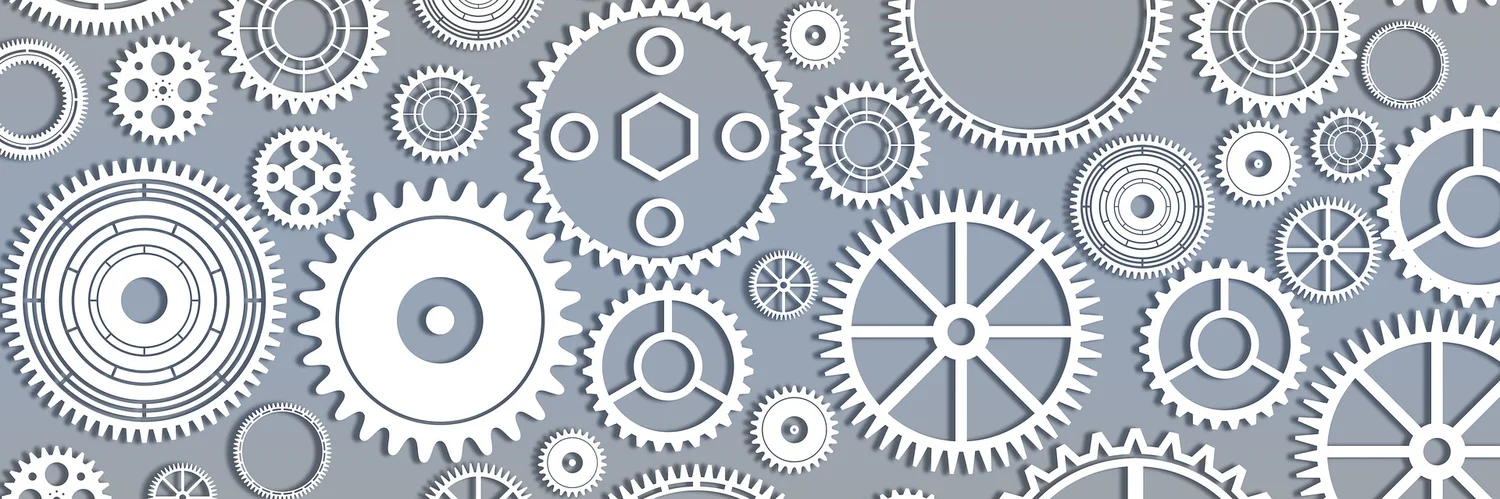
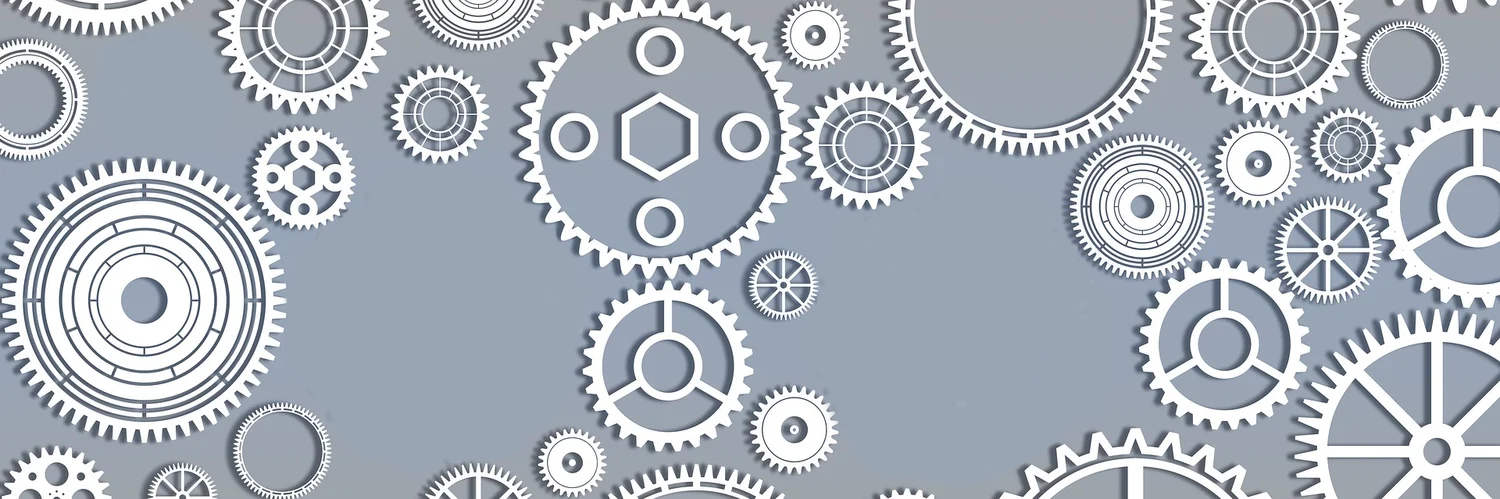
add rotating gears

Changed region(s): [[0.184, 0.3607, 0.3987, 0.9319], [0.5213, 0.3607, 0.736, 0.9619], [0.0613, 0.0601, 0.1533, 0.3006]]

diff --git a/components/svg/gears.js b/components/svg/gears.js
@@ -1,0 +1,97 @@
+import styled, { css, keyframes } from "styled-components";
+
+export const Gear = (props) => (
+  <svg viewBox="0 0 797.119 265.291" {...props}>
+    <image
+      width={797.119}
+      height={265.291}
+      style={{}}
+      xlinkHref=" /banner1.webp"
+    />
+    <Gear1
+      className="gear_1"
+      style={{
+        fill: "#fff",
+        stroke: "rgb(0, 0, 0)",
+        strokeOpacity: 0,
+      }}
+      d="M 519.394 192.746 C 518.388 193.276 517.335 193.712 516.248 194.049 L 516.242 235.177 C 527.947 234.082 539.214 229.505 548.475 221.818 L 519.394 192.746 Z M 505.289 194.049 C 504.202 193.712 503.149 193.276 502.143 192.746 L 472.979 221.901 C 478.832 226.739 485.811 230.561 493.817 232.955 C 497.602 234.087 501.446 234.825 505.296 235.182 L 505.289 194.049 Z M 494.393 184.996 C 493.864 183.99 493.427 182.937 493.091 181.851 L 451.906 181.844 C 453.034 193.584 457.615 204.93 465.241 214.159 L 494.393 184.996 Z M 493.091 170.891 C 493.427 169.805 493.864 168.752 494.393 167.746 L 465.262 138.604 C 457.215 148.208 452.871 159.489 451.862 170.898 L 493.091 170.891 Z M 502.143 159.996 C 503.149 159.466 504.202 159.03 505.289 158.693 L 505.296 117.514 C 493.574 118.601 482.289 123.18 473.016 130.877 L 502.143 159.996 Z M 516.248 158.693 C 517.335 159.03 518.388 159.466 519.394 159.996 L 548.564 130.835 C 542.701 125.978 535.705 122.141 527.676 119.74 C 523.906 118.612 520.076 117.876 516.242 117.517 L 516.248 158.693 Z M 527.144 167.746 C 527.674 168.752 528.11 169.805 528.446 170.891 L 569.591 170.898 C 568.473 159.162 563.904 147.819 556.293 138.586 L 527.144 167.746 Z M 528.446 181.851 C 528.11 182.937 527.674 183.99 527.144 184.996 L 556.23 214.093 C 564.266 204.501 568.61 193.237 569.626 181.844 L 528.446 181.851 Z M 516.229 181.831 C 520.432 177.628 518.509 170.451 512.767 168.912 C 510.102 168.198 507.259 168.96 505.308 170.911 C 501.105 175.114 503.028 182.291 508.77 183.83 C 511.435 184.544 514.278 183.782 516.229 181.831 Z M 564.057 230.527 L 561.767 232.689 L 551.779 224.04 C 551.12 224.607 550.449 225.16 549.768 225.699 L 556.36 237.149 L 553.802 238.987 L 545.056 229.083 C 544.327 229.557 543.589 230.016 542.842 230.459 L 547.849 242.686 L 545.069 244.167 L 537.721 233.186 C 536.936 233.558 536.143 233.915 535.343 234.254 L 538.676 247.04 L 535.723 248.136 L 529.904 236.274 C 529.076 236.539 528.243 236.786 527.405 237.016 L 529.005 250.132 L 525.932 250.825 L 521.746 238.293 C 520.89 238.445 520.031 238.579 519.17 238.695 L 519.007 251.907 L 515.87 252.184 L 513.391 239.206 C 512.523 239.243 511.654 239.261 510.785 239.262 L 508.862 252.334 L 505.716 252.191 L 504.99 238.998 C 504.124 238.918 503.26 238.821 502.399 238.706 L 498.751 251.405 L 495.652 250.843 L 496.69 237.671 C 495.843 237.477 495 237.266 494.162 237.036 L 488.854 249.136 L 485.857 248.167 L 488.642 235.251 C 487.828 234.945 487.021 234.623 486.221 234.284 L 479.348 245.569 L 476.507 244.209 L 480.988 231.779 C 480.223 231.368 479.465 230.941 478.717 230.499 L 470.401 240.766 L 467.767 239.039 L 473.866 227.318 C 473.161 226.809 472.468 226.285 471.786 225.746 L 462.175 234.814 L 459.795 232.751 L 467.401 221.948 C 466.771 221.349 466.154 220.737 465.549 220.113 L 454.816 227.818 L 452.731 225.457 L 461.71 215.763 C 461.165 215.086 460.635 214.397 460.119 213.698 L 448.455 219.904 L 446.703 217.286 L 456.894 208.876 C 456.444 208.132 456.01 207.379 455.592 206.617 L 443.205 211.213 L 441.818 208.385 L 453.039 201.408 C 452.692 200.61 452.363 199.806 452.05 198.995 L 439.16 201.9 L 438.163 198.912 L 450.213 193.492 C 449.976 192.656 449.757 191.815 449.555 190.97 L 436.393 192.13 L 435.803 189.036 L 448.468 185.271 C 448.345 184.411 448.24 183.548 448.152 182.683 L 434.953 182.079 L 434.781 178.934 L 447.835 176.891 C 447.827 176.022 447.838 175.152 447.866 174.284 L 434.865 171.926 L 435.114 168.786 L 448.323 168.5 C 448.432 167.638 448.558 166.778 448.702 165.921 L 436.132 161.851 L 436.797 158.772 L 449.926 160.25 C 450.149 159.41 450.389 158.575 450.646 157.744 L 438.73 152.035 L 439.799 149.072 L 452.615 152.287 C 452.947 151.484 453.296 150.688 453.661 149.9 L 442.613 142.653 L 444.067 139.859 L 456.34 144.754 C 456.777 144.002 457.229 143.26 457.696 142.527 L 447.712 133.873 L 449.526 131.298 L 461.037 137.784 C 461.569 137.097 462.116 136.422 462.677 135.758 L 453.936 125.85 L 456.077 123.54 L 466.62 131.503 C 467.24 130.893 467.872 130.296 468.516 129.713 L 461.173 118.728 L 463.603 116.724 L 472.991 126.021 C 473.686 125.5 474.392 124.993 475.109 124.5 L 469.295 112.635 L 471.971 110.972 L 480.036 121.438 C 480.794 121.014 481.562 120.605 482.337 120.213 L 478.157 107.679 L 481.03 106.387 L 487.629 117.835 C 488.437 117.515 489.252 117.213 490.073 116.927 L 487.601 103.948 L 490.62 103.051 L 495.634 115.275 C 496.478 115.067 497.325 114.875 498.177 114.702 L 497.457 101.509 L 500.569 101.022 L 503.909 113.806 C 504.773 113.712 505.639 113.635 506.506 113.576 L 507.551 100.405 L 510.7 100.338 L 512.306 113.453 C 513.175 113.474 514.043 113.514 514.91 113.571 L 517.702 100.657 L 520.831 101.01 L 520.675 114.222 C 521.533 114.359 522.389 114.514 523.24 114.686 L 527.728 102.259 L 530.783 103.026 L 528.867 116.099 C 529.699 116.35 530.526 116.617 531.347 116.902 L 537.452 105.184 L 540.377 106.351 L 536.736 119.052 C 537.527 119.411 538.311 119.787 539.087 120.178 L 546.699 109.378 L 549.442 110.925 L 544.14 123.027 C 544.877 123.489 545.604 123.965 546.321 124.457 L 555.304 114.767 L 557.817 116.666 L 550.949 127.954 C 551.618 128.51 552.275 129.079 552.92 129.661 L 563.114 121.256 L 565.352 123.473 L 557.041 133.744 C 557.629 134.384 558.205 135.036 558.766 135.699 L 569.99 128.727 L 571.912 131.223 L 562.306 140.295 C 562.804 141.007 563.287 141.73 563.756 142.462 L 575.808 137.049 L 577.381 139.778 L 566.651 147.489 C 567.05 148.261 567.433 149.042 567.799 149.83 L 580.466 146.071 L 581.66 148.986 L 569.999 155.198 C 570.291 156.016 570.567 156.841 570.825 157.671 L 583.879 155.634 L 584.675 158.682 L 572.289 163.284 C 572.47 164.134 572.633 164.988 572.778 165.845 L 585.988 165.567 L 586.37 168.693 L 573.481 171.604 C 573.547 172.47 573.595 173.338 573.624 174.207 L 586.753 175.691 L 586.715 178.841 L 573.554 180.008 C 573.503 180.875 573.435 181.742 573.348 182.607 L 586.163 185.828 L 585.705 188.944 L 572.506 188.347 C 572.34 189.2 572.157 190.049 571.956 190.895 L 584.226 195.795 L 583.357 198.823 L 570.355 196.471 C 570.077 197.295 569.782 198.112 569.471 198.924 L 580.978 205.416 L 579.714 208.301 L 567.141 204.237 C 566.756 205.016 566.355 205.787 565.937 206.549 L 576.477 214.517 L 574.839 217.208 L 562.921 211.505 C 562.435 212.225 561.935 212.936 561.42 213.636 L 570.803 222.938 L 568.821 225.386 L 557.769 218.145 C 557.192 218.795 556.601 219.432 555.997 220.057 L 564.057 230.527 Z"
+    />
+    <Gear2
+      className="gear_2"
+      d="M 78.426 48.022 C 78.426 51.906 75.277 55.055 71.393 55.055 C 67.509 55.055 64.36 51.906 64.36 48.022 C 64.36 44.138 67.509 40.989 71.393 40.989 C 75.277 40.989 78.426 44.138 78.426 48.022 Z M 107.763 48.022 C 107.763 51.906 104.614 55.055 100.73 55.055 C 96.846 55.055 93.697 51.906 93.697 48.022 C 93.697 44.138 96.846 40.989 100.73 40.989 C 104.614 40.989 107.763 44.138 107.763 48.022 Z M 93.095 33.052 C 93.095 36.936 89.946 40.085 86.062 40.085 C 82.178 40.085 79.029 36.936 79.029 33.052 C 79.029 29.168 82.178 26.019 86.062 26.019 C 89.946 26.019 93.095 29.168 93.095 33.052 Z M 93.095 62.992 C 93.095 66.876 89.946 70.025 86.062 70.025 C 82.178 70.025 79.029 66.876 79.029 62.992 C 79.029 59.108 82.178 55.959 86.062 55.959 C 89.946 55.959 93.095 59.108 93.095 62.992 Z M 75.776 34.913 C 75.776 36.245 74.697 37.324 73.365 37.324 C 72.033 37.324 70.954 36.245 70.954 34.913 C 70.954 33.581 72.033 32.502 73.365 32.502 C 74.697 32.502 75.776 33.581 75.776 34.913 Z M 101.169 34.913 C 101.169 36.245 100.09 37.324 98.758 37.324 C 97.426 37.324 96.347 36.245 96.347 34.913 C 96.347 33.581 97.426 32.502 98.758 32.502 C 100.09 32.502 101.169 33.581 101.169 34.913 Z M 75.776 61.131 C 75.776 62.463 74.697 63.542 73.365 63.542 C 72.033 63.542 70.954 62.463 70.954 61.131 C 70.954 59.799 72.033 58.72 73.365 58.72 C 74.697 58.72 75.776 59.799 75.776 61.131 Z M 101.169 61.131 C 101.169 62.463 100.09 63.542 98.758 63.542 C 97.426 63.542 96.347 62.463 96.347 61.131 C 96.347 59.799 97.426 58.72 98.758 58.72 C 100.09 58.72 101.169 59.799 101.169 61.131 Z M 86.578 42.912 C 86.578 43.281 86.278 43.581 85.909 43.581 C 85.54 43.581 85.24 43.281 85.24 42.912 C 85.24 42.543 85.54 42.243 85.909 42.243 C 86.278 42.243 86.578 42.543 86.578 42.912 Z M 90.08 44.526 C 90.08 44.895 89.78 45.195 89.411 45.195 C 89.042 45.195 88.742 44.895 88.742 44.526 C 88.742 44.157 89.042 43.857 89.411 43.857 C 89.78 43.857 90.08 44.157 90.08 44.526 Z M 91.625 48.196 C 91.625 48.565 91.325 48.865 90.956 48.865 C 90.587 48.865 90.287 48.565 90.287 48.196 C 90.287 47.827 90.587 47.527 90.956 47.527 C 91.325 47.527 91.625 47.827 91.625 48.196 Z M 89.822 51.544 C 89.822 51.913 89.522 52.213 89.153 52.213 C 88.784 52.213 88.484 51.913 88.484 51.544 C 88.484 51.175 88.784 50.875 89.153 50.875 C 89.522 50.875 89.822 51.175 89.822 51.544 Z M 86.603 53.218 C 86.603 53.587 86.303 53.887 85.934 53.887 C 85.565 53.887 85.265 53.587 85.265 53.218 C 85.265 52.849 85.565 52.549 85.934 52.549 C 86.303 52.549 86.603 52.849 86.603 53.218 Z M 82.547 51.737 C 82.547 52.106 82.247 52.406 81.878 52.406 C 81.509 52.406 81.209 52.106 81.209 51.737 C 81.209 51.368 81.509 51.068 81.878 51.068 C 82.247 51.068 82.547 51.368 82.547 51.737 Z M 81.71 48.388 C 81.71 48.757 81.41 49.057 81.041 49.057 C 80.672 49.057 80.372 48.757 80.372 48.388 C 80.372 48.019 80.672 47.719 81.041 47.719 C 81.41 47.719 81.71 48.019 81.71 48.388 Z M 82.998 44.655 C 82.998 45.024 82.698 45.324 82.329 45.324 C 81.96 45.324 81.66 45.024 81.66 44.655 C 81.66 44.286 81.96 43.986 82.329 43.986 C 82.698 43.986 82.998 44.286 82.998 44.655 Z M 62.258 54.37 C 62.41 54.944 62.583 55.513 62.777 56.074 L 58.756 59.118 L 59.628 61.063 L 64.575 60.088 C 64.866 60.606 65.175 61.114 65.502 61.609 L 62.365 65.558 L 63.692 67.224 L 68.242 65.05 C 68.652 65.48 69.078 65.894 69.518 66.293 L 67.461 70.897 L 69.162 72.182 L 73.028 68.944 C 73.532 69.258 74.047 69.554 74.572 69.831 L 73.725 74.802 L 75.692 75.623 L 78.631 71.526 C 79.197 71.705 79.77 71.863 80.348 72 L 80.764 77.026 L 82.872 77.332 L 84.7 72.633 C 85.294 72.665 85.888 72.676 86.481 72.666 L 88.134 77.43 L 90.253 77.202 L 90.855 72.195 C 91.437 72.079 92.015 71.942 92.588 71.784 L 95.373 75.988 L 97.369 75.24 L 96.707 70.241 C 97.242 69.984 97.768 69.708 98.283 69.412 L 102.026 72.791 L 103.773 71.571 L 101.889 66.893 C 102.343 66.511 102.784 66.113 103.21 65.698 L 107.676 68.04 L 109.064 66.424 L 106.076 62.362 C 106.421 61.879 106.748 61.383 107.058 60.876 L 111.966 62.034 L 112.909 60.123 L 109.004 56.932 C 109.218 56.378 109.412 55.816 109.586 55.248 L 114.627 55.149 L 115.065 53.063 L 110.49 50.944 C 110.56 50.354 110.608 49.762 110.635 49.168 L 115.493 47.818 L 115.399 45.689 L 110.44 44.774 C 110.361 44.186 110.26 43.6 110.139 43.019 L 114.509 40.503 L 113.888 38.464 L 108.857 38.811 C 108.634 38.261 108.391 37.719 108.129 37.186 L 111.736 33.662 L 110.628 31.842 L 105.841 33.429 C 105.488 32.951 105.118 32.487 104.732 32.036 L 107.349 27.726 L 105.823 26.238 L 101.582 28.966 C 101.121 28.591 100.647 28.233 100.16 27.892 L 101.624 23.067 L 99.776 22.006 L 96.346 25.702 C 95.807 25.454 95.258 25.225 94.702 25.016 L 94.92 19.978 L 92.866 19.41 L 90.463 23.843 C 89.879 23.737 89.291 23.651 88.7 23.587 L 87.658 18.654 L 85.527 18.614 L 84.303 23.506 C 83.71 23.548 83.12 23.611 82.532 23.696 L 80.295 19.177 L 78.222 19.668 L 78.252 24.711 C 77.689 24.899 77.132 25.107 76.584 25.336 L 73.294 21.515 L 71.408 22.506 L 72.691 27.383 C 72.192 27.705 71.705 28.045 71.231 28.403 L 67.094 25.52 L 65.513 26.95 L 67.969 31.354 C 67.566 31.79 67.179 32.241 66.809 32.705 L 62.084 30.942 L 60.909 32.719 L 64.383 36.374 C 64.102 36.897 63.839 37.43 63.595 37.972 L 58.581 37.438 L 57.885 39.453 L 62.159 42.129 C 62.016 42.705 61.894 43.287 61.793 43.872 L 56.803 44.603 L 56.63 46.727 L 61.435 48.256 C 61.44 48.85 61.466 49.443 61.514 50.035 L 56.863 51.984 L 57.223 54.084 L 62.258 54.37 Z M 84.776 46.528 C 85.953 45.549 87.748 46.212 88.007 47.72 C 88.127 48.421 87.864 49.132 87.318 49.586 C 86.141 50.564 84.346 49.902 84.087 48.393 C 83.967 47.693 84.23 46.982 84.776 46.528 Z"
+      style={{
+        fill: "#fff",
+        stroke: "rgb(0, 0, 0)",
+        strokeOpacity: 0,
+      }}
+    />
+    <Gear3
+      className="gear_3"
+      d="M 270.599 132.723 C 241.666 103.839 192.261 117.054 181.671 156.511 C 176.756 174.823 182 194.362 195.428 207.767 C 224.361 236.651 273.766 223.436 284.356 183.979 C 289.271 165.667 284.027 146.128 270.599 132.723 Z M 268.872 134.447 C 296.476 162.004 283.847 209.059 246.139 219.146 C 228.638 223.827 209.966 218.832 197.155 206.043 C 169.551 178.486 182.18 131.431 219.888 121.344 C 237.389 116.663 256.061 121.658 268.872 134.447 Z M 288.254 218.662 L 286.22 220.888 L 275.093 216.843 C 274.455 217.419 273.806 217.982 273.145 218.532 L 275.571 230.121 L 273.079 231.818 L 263.184 225.316 C 262.431 225.729 261.669 226.128 260.899 226.51 L 260.587 238.346 L 257.771 239.422 L 249.642 230.814 C 248.814 231.042 247.981 231.254 247.144 231.449 L 244.11 242.893 L 241.122 243.292 L 235.197 233.04 C 234.339 233.072 233.479 233.086 232.62 233.082 L 227.029 243.519 L 224.029 243.217 L 220.629 231.876 C 219.786 231.709 218.946 231.524 218.111 231.322 L 210.264 240.188 L 207.415 239.203 L 206.721 227.383 C 205.94 227.026 205.165 226.653 204.399 226.264 L 194.719 233.081 L 192.174 231.465 L 194.225 219.804 C 193.547 219.276 192.879 218.734 192.223 218.179 L 181.232 222.58 L 179.128 220.421 L 183.813 209.548 C 183.275 208.877 182.75 208.196 182.24 207.505 L 170.53 209.253 L 168.981 206.666 L 176.047 197.166 C 175.678 196.39 175.325 195.606 174.988 194.816 L 163.19 193.816 L 162.279 190.942 L 171.346 183.328 C 171.166 182.487 171.003 181.643 170.857 180.796 L 159.608 177.103 L 159.384 174.096 L 169.963 168.778 C 169.981 167.919 170.017 167.06 170.071 166.202 L 159.977 160.014 L 160.453 157.037 L 171.972 154.301 C 172.188 153.47 172.422 152.642 172.672 151.82 L 164.277 143.471 L 165.426 140.684 L 177.266 140.679 C 177.668 139.919 178.086 139.168 178.519 138.426 L 172.276 128.365 L 174.037 125.918 L 185.559 128.644 C 186.125 127.998 186.705 127.363 187.298 126.741 L 183.543 115.512 L 185.821 113.537 L 196.404 118.846 C 197.104 118.348 197.814 117.864 198.534 117.395 L 197.47 105.603 L 200.142 104.206 L 209.216 111.813 C 210.012 111.49 210.815 111.183 211.623 110.893 L 213.308 99.173 L 216.23 98.43 L 223.304 107.925 C 224.153 107.794 225.005 107.68 225.859 107.584 L 230.201 96.569 L 233.215 96.52 L 237.91 107.39 C 238.766 107.458 239.621 107.544 240.474 107.648 L 247.239 97.931 L 250.184 98.579 L 252.245 110.238 C 253.062 110.502 253.875 110.783 254.681 111.08 L 263.504 103.185 L 266.22 104.494 L 265.537 116.315 C 266.271 116.761 266.997 117.221 267.713 117.696 L 278.119 112.049 L 280.46 113.949 L 277.069 125.294 C 277.681 125.897 278.281 126.512 278.868 127.14 L 290.296 124.044 L 292.135 126.433 L 286.22 136.69 C 286.676 137.418 287.118 138.155 287.544 138.901 L 299.378 138.524 L 300.617 141.273 L 292.496 149.889 C 292.772 150.702 293.032 151.522 293.275 152.346 L 304.876 154.709 L 305.448 157.669 L 295.558 164.179 C 295.64 165.035 295.703 165.892 295.75 166.75 L 306.494 171.725 L 306.367 174.737 L 295.243 178.791 C 295.125 179.642 294.989 180.491 294.836 181.337 L 304.144 188.655 L 303.326 191.557 L 291.566 192.936 C 291.255 193.738 290.927 194.532 290.584 195.32 L 297.953 204.587 L 296.487 207.222 L 284.727 205.853 C 284.239 206.56 283.737 207.258 283.221 207.945 L 288.254 218.662 Z M 250.294 186.03 C 262.53 172.636 255.676 151.019 237.959 147.12 C 229.736 145.311 221.173 148.026 215.494 154.242 C 203.259 167.637 210.112 189.253 227.83 193.152 C 236.053 194.961 244.616 192.247 250.294 186.03 Z M 239.661 170.02 C 239.661 173.732 236.651 176.742 232.939 176.742 C 229.227 176.742 226.217 173.732 226.217 170.02 C 226.217 166.308 229.227 163.298 232.939 163.298 C 236.651 163.298 239.661 166.308 239.661 170.02 Z"
+      style={{
+        fill: "#fff",
+        stroke: "rgb(0, 0, 0)",
+        strokeOpacity: 0,
+      }}
+    />
+  </svg>
+);
+
+const gear_1_loading = keyframes`
+from {
+    transform: rotate(0deg);
+    transform-origin: 510px 176px;
+}
+to {
+  transform: rotate(360deg);
+  transform-origin: 510px 176px;
+}
+`;
+const gear_2_loading = keyframes`
+from {
+    transform: rotate(0deg);
+    transform-origin: 86px 49px;
+}
+to {
+  transform: rotate(360deg);
+  transform-origin: 86px 49px;
+}
+`;
+const gear_3_loading = keyframes`
+from {
+    transform: rotate(0deg);
+    transform-origin: 233px 170px;
+}
+to {
+  transform: rotate(360deg);
+  transform-origin: 233px 170px;
+}
+`;
+
+const Gear1 = styled.path`
+  filter: drop-shadow(3px 5px 2px rgb(0 0 0 / 0.4));
+  :hover {
+    animation: ${css`
+        ${gear_1_loading}`} 16s linear infinite;
+  }
+
+  :focus {
+    animation: ${css`
+        ${gear_1_loading}`} 2s linear infinite;
+  }
+`;
+const Gear2 = styled.path`
+  filter: drop-shadow(3px 5px 2px rgb(0 0 0 / 0.4));
+  :hover {
+    animation: ${css`
+        ${gear_2_loading}`} 4s linear infinite;
+  }
+`;
+const Gear3 = styled.path`
+  filter: drop-shadow(3px 5px 2px rgb(0 0 0 / 0.4));
+  :hover {
+    animation: ${css`
+        ${gear_3_loading}`} 8s linear infinite;
+  }
+`;

diff --git a/components/contactComponents/contactForm/contactForm.jsx b/components/contactComponents/contactForm/contactForm.jsx
@@ -1,5 +1,6 @@
-import React from 'react'
+import React, {useRef, useState} from 'react'
 import { ContactFormMainWrap, ContactFormWrap, ContactText, FormWrap } from './contactFormStyles'
+
 
 const ContactForm = () => {
   return (
@@ -10,10 +11,10 @@ const ContactForm = () => {
                   <p>Let&apos;s work together. Submit your details in this form and I will get back to you ASAP.</p>
             </ContactText>
             <FormWrap>
-                <form >
-                    <input type="text" name="name" placeholder="Name" maxLength="256"/>
-                    <input type="email" name="email" placeholder="Email Address" maxLength="256" style={{background:"white"}}/>
-                    <textarea placeholder="Describe your project..." name="description">
+                <form action="https://docs.google.com/forms/u/0/d/e/1FAIpQLSf8UePOFsa_8L6hyVzGo8tswpt_eBWRXjIxWtO6_1ViWPy1LQ/formResponse" method="POST" >
+                    <input type="text" name="entry.48002773" placeholder="Name" maxLength="256"/>
+                    <input type="email" name="entry.1060212562" placeholder="Email Address" maxLength="256" style={{background:"white"}}/>
+                    <textarea placeholder="Describe your project..." name="entry.313725081">
                     </textarea>
                     <button type="submit" value="Send inquiry">Send Enquiry</button>
                 </form>
@@ -23,4 +24,4 @@ const ContactForm = () => {
   )
 }
 
-export default ContactForm
+export default ContactForm  

diff --git a/components/header/headerStyles.js b/components/header/headerStyles.js
@@ -39,8 +39,12 @@ export const HeaderWrap = styled.div`
 export const Brand = styled.div`
   flex: 1 1 auto;
   left: 0;
-  p{
-      font-size: 1rem:
+  p {
+    font-size: 1.5rem;
+    font-weight: bolder;
+    margin-bottom: auto;
+    margin-top: 10px;
+    max-height: 40px;
   }
 `;
 
@@ -52,7 +56,7 @@ export const DropDownWrap = styled.div`
   overflow-x: hidden;
   overflow-y: hidden;
   position: fixed;
-  z-index: 999;
+  z-index: 9999;
   right: 0px;
   width: 100vw;
   transition: height 0.5s;
@@ -78,7 +82,7 @@ export const NavBar = styled.nav`
   background-size: auto;
   box-sizing: border-box;
   color: rgb(51, 51, 51);
-  z-index: 1000;
+  z-index: 9000;
   display: relative;
   left: 0px;
   min-width: 200px;

diff --git a/components/homeComponents/homeBanner/homeBanner.jsx b/components/homeComponents/homeBanner/homeBanner.jsx
@@ -7,6 +7,7 @@ import Button from '@mui/material/Button';
 import KeyboardArrowLeft from '@mui/icons-material/KeyboardArrowLeft';
 import KeyboardArrowRight from '@mui/icons-material/KeyboardArrowRight';
 import { useTheme } from '@mui/material/styles';
+import { Gear } from '../../svg/gears';
 const images = [
   {
     label: 'San Francisco – Oakland Bay Bridge, United States',
@@ -49,6 +50,7 @@ const HomeBanner = () => {
   // })
   return (
     <BannerWrap bannerImage={images[0].imgPath}>
+      <Gear />
         {/* <Carousel /> */}
         {/* <MobileStepper
       style={{position:"absolute", width:"100%", bottom:"0", background:"rgba(255, 255, 255, 0.5)"}}

diff --git a/components/homeComponents/homeBanner/homeBannerStyles.js b/components/homeComponents/homeBanner/homeBannerStyles.js
@@ -4,18 +4,16 @@ export const BannerWrap = styled.div`
   height: auto;
   background-color: #fff;
   position: relative;
-  height: 540px;
   text-align: center;
   background: #dddddd;
   background-color: rgb(221, 221, 221);
   clear: both;
-  margin-top: 67px;
-  background-image: linear-gradient(
-      135deg,
-      rgba(145, 0, 217, 0.48),
-      rgba(0, 182, 227, 0.36)
-    ),
-    url(${(props) => props.bannerImage});
-  background-repeat: no-repeat;
-  background-size: cover;
+
+  @media all and (min-width: 766px) {
+    margin-top: 67px;
+  }
+
+  @media all and (max-width: 766px) {
+    margin-top: 50px;
+  }
 `;

diff --git a/components/footer/footerStyles.js b/components/footer/footerStyles.js
@@ -8,7 +8,6 @@ export const FooterWrap = styled.div`
   padding-left: 20px;
   padding-right: 0;
   padding-top: 0;
-  display: flex;
   justify-content: flex-end;
   height: auto;
 
@@ -16,5 +15,13 @@ export const FooterWrap = styled.div`
     flex: 1 1 auto;
     text-align: center;
     align-self: center;
+  }
+
+  @media all and (min-width: 766px) {
+    display: flex;
+  }
+
+  @media all and (max-width: 766px) {
+    display: grid;
   }
 `;

diff --git a/components/header/header.jsx b/components/header/header.jsx
@@ -31,7 +31,7 @@ const Header = () => {
     <>
       <HeaderMainWrap>
         <HeaderWrap>
-          <Brand><p>Jerome Cordjotse</p></Brand>
+          <Brand><p>Jerome Elorm Cordjotse</p></Brand>
           <MenuIcon ref={myRef} menuFunc={toggleMenu} />
         </HeaderWrap>
       </HeaderMainWrap>

diff --git a/components/homeComponents/homeSkills/homeSkillsStyles.js b/components/homeComponents/homeSkills/homeSkillsStyles.js
@@ -5,6 +5,8 @@ export const SkillsMainWrap = styled.div`
   color: rgb(105, 105, 105);
   padding-bottom: 80px;
   padding-top: 80px;
+  position: relative;
+  z-index: 999;
 `;
 
 export const SkillsWrap = styled.div`

diff --git a/styles/globals.css b/styles/globals.css
@@ -1,6 +1,6 @@
 html,
 body {
-  overflow-x: none;
+  overflow-x: hidden;
   padding: 0;
   margin: 0;
   font-family: Dosis, -apple-system, BlinkMacSystemFont, Segoe UI, Roboto,
